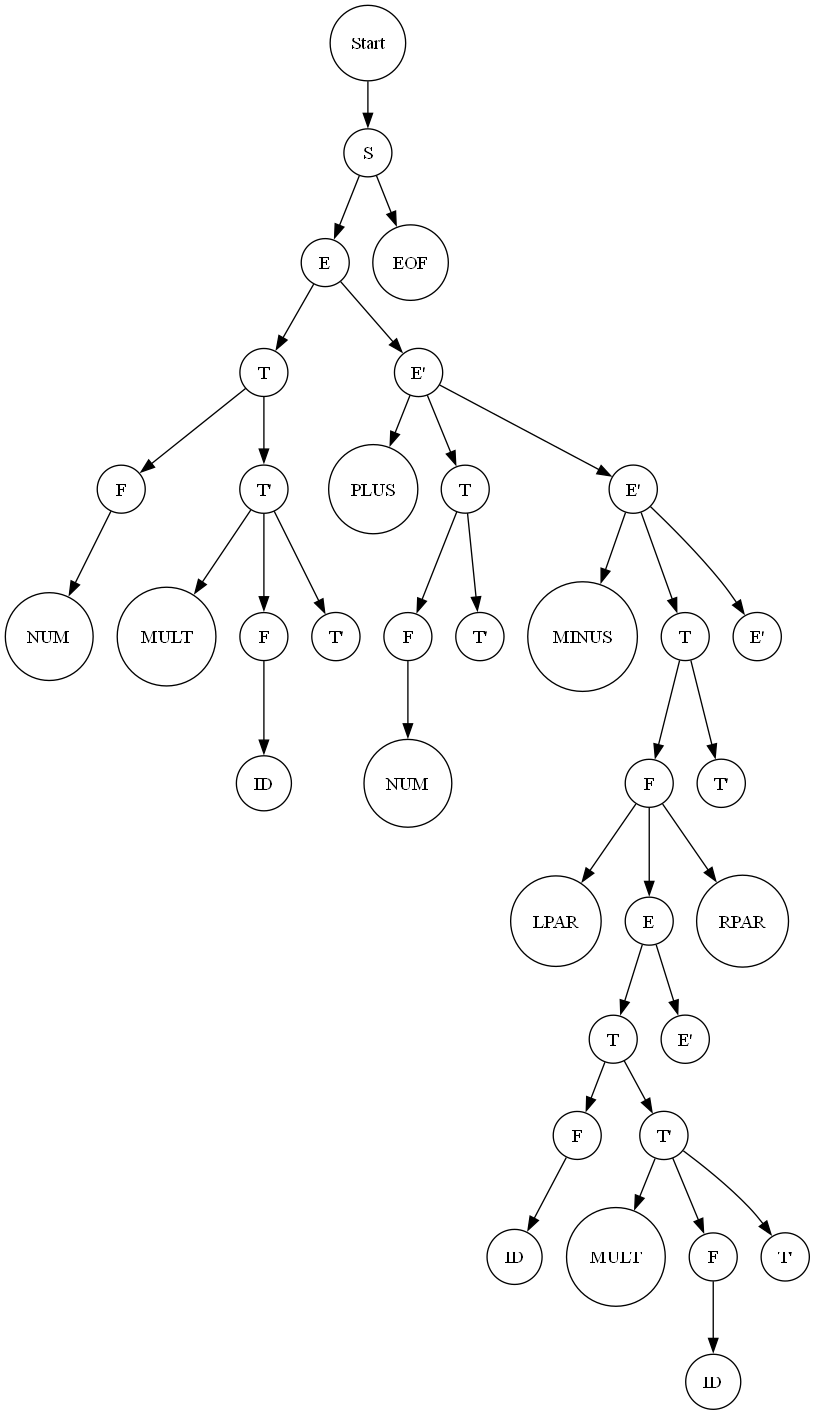
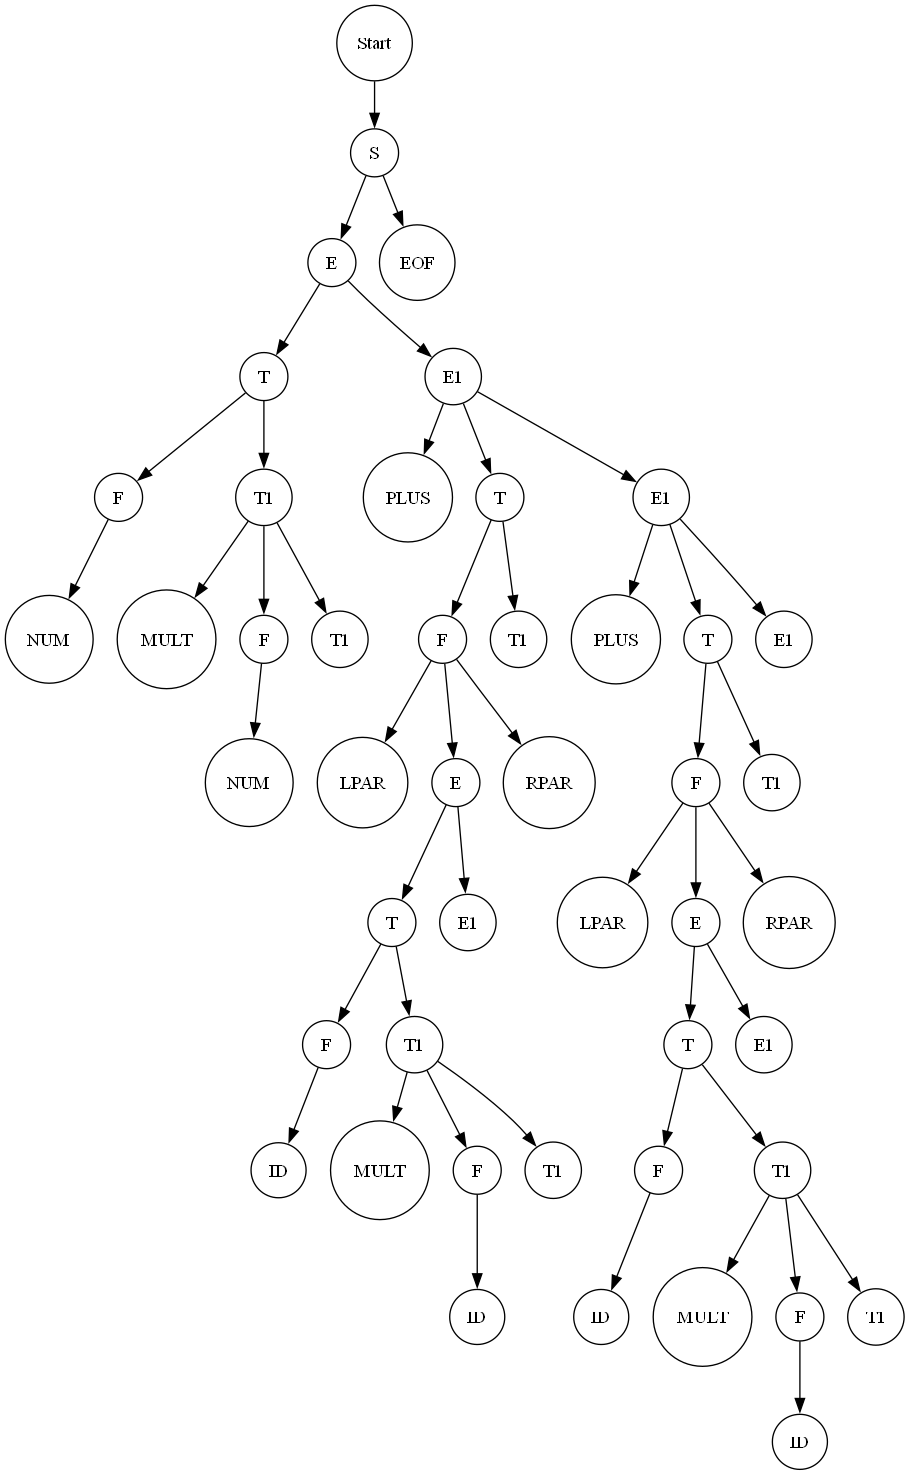
consertando erros na AST

diff --git a/src/compilers.js b/src/compilers.js
@@ -142,15 +142,15 @@ export const compiler5 = {
 
         language.addProductionRule("S", ["E", "EOF"])  
 
-        language.addProductionRule("E", ["T", "E'"])  
-        language.addProductionRule("E'", ["PLUS", "T", "E'"])  
-        language.addProductionRule("E'", ["MINUS", "T", "E'"])  
-        language.addProductionRule("E'", [])  //Vazio significa o epsilon
+        language.addProductionRule("E", ["T", "E1"])  
+        language.addProductionRule("E1", ["PLUS", "T", "E1"])  
+        language.addProductionRule("E1", ["MINUS", "T", "E1"])  
+        language.addProductionRule("E1", [])  //Vazio significa o epsilon
 
-        language.addProductionRule("T", ["F", "T'"])  
-        language.addProductionRule("T'", ["MULT", "F", "T'"])  
-        language.addProductionRule("T'", ["DIV", "F", "T'"])  
-        language.addProductionRule("T'", []) //Vazio significa o epsilon
+        language.addProductionRule("T", ["F", "T1"])  
+        language.addProductionRule("T1", ["MULT", "F", "T1"])  
+        language.addProductionRule("T1", ["DIV", "F", "T1"])  
+        language.addProductionRule("T1", []) //Vazio significa o epsilon
 
         language.addProductionRule("F", ["ID"])  
         language.addProductionRule("F", ["NUM"])  
@@ -187,15 +187,15 @@ export const compiler6 = {
 
         language.addProductionRule("S", ["E", "EOF"])  
 
-        language.addProductionRule("E", ["T", "E'"])  
-        language.addProductionRule("E'", ["PLUS", "T", "E'"])  
-        language.addProductionRule("E'", ["MINUS", "T", "E'"])  
-        language.addProductionRule("E'", [])  //Vazio significa o epsilon
+        language.addProductionRule("E", ["T", "E1"])  
+        language.addProductionRule("E1", ["PLUS", "T", "E1"])  
+        language.addProductionRule("E1", ["MINUS", "T", "E1"])  
+        language.addProductionRule("E1", [])  //Vazio significa o epsilon
 
-        language.addProductionRule("T", ["F", "T'"])  
-        language.addProductionRule("T'", ["MULT", "F", "T'"])  
-        language.addProductionRule("T'", ["DIV", "F", "T'"])  
-        language.addProductionRule("T'", []) //Vazio significa o epsilon
+        language.addProductionRule("T", ["F", "T1"])  
+        language.addProductionRule("T1", ["MULT", "F", "T1"])  
+        language.addProductionRule("T1", ["DIV", "F", "T1"])  
+        language.addProductionRule("T1", []) //Vazio significa o epsilon
 
         language.addProductionRule("F", ["ID"])  
         language.addProductionRule("F", ["NUM"])  
@@ -208,16 +208,56 @@ export const compiler6 = {
         E: (node) => {
 
             const children = node.children;
+  
+            if (children.length === 1) return children[0];
+  
+  
+            const rightOperand = node.children[1];
+  
+            if (rightOperand.type == "E1"){
+                  
+                  if(rightOperand.children.length == 0) return children[0];
+  
+  
+                  return {
+                      type: rightOperand.children[0].type,
+                      children:[
+                          node.children[0],
+                          {
+                              type: "E",
+                              children: [rightOperand.children[1], rightOperand.children[2]]
+                          }
+                  ]
+                  }
+            }
+          
+            return node;
+        },
 
-            if (children.length === 1) return children[0]; // Apenas "T"
+        // Regra para "E'" (A parte que lida com os operadores binários adicionais)
+        E1: (node) => {
+            const children = node.children;
+            // Caso tenha operador binário, cria expressão binária com "E"
 
-            return { 
-                type: "BinaryExpression", 
-                children: [children[0], children[1]] ,
-                operator: children[1], 
-                left: children[0], 
-                right: children[1] 
-            };
+            if (children.length === 1) return children[0];
+
+            console.log(node)
+
+            if(children.length == 0) return node;
+
+
+            const rightOperand = node.children[2];
+
+            if (rightOperand.type == "E1"){
+                    
+                    if(rightOperand.children.length == 0) return children[0];
+
+
+                    return {
+                        type: rightOperand.children[0].type,
+                        children: [rightOperand.children[1], rightOperand.children[2]] 
+                    }
+            }
         },
 
         T: (node) => {
@@ -225,32 +265,64 @@ export const compiler6 = {
           const children = node.children;
 
           if (children.length === 1) return children[0];
-          return { 
-            type: "EXP", 
-            children: [children[0], children[1]], 
-            operator: children[1], 
-            left: children[0], 
-            right: children[1] 
-          };
+
+
+          const rightOperand = node.children[1];
+
+          if (rightOperand.type == "T1"){
+                
+                if(rightOperand.children.length == 0) return children[0];
+
+
+                return {
+                    type: rightOperand.children[0].type,
+                    children:[
+                        node.children[0],
+                        {
+                            type: "T",
+                            children: [rightOperand.children[1], rightOperand.children[2]]
+                        }
+                ]
+                }
+          }
+        
+          return node;
+        },
+
+        // Regra para "T'" (A parte que lida com operadores multiplicativos)
+        T1: (node) => {
+            const children = node.children;
+
+            if(children.length < 1) throw Error();
+
+            if (children.length === 1) return children[0];
+
+            const rightOperand = node.children[2];
+
+            if (rightOperand.type == "T1"){
+                    
+                    if(rightOperand.children.length == 0) return children[0];
+
+                    return {
+                        type: node.children[0].type,
+                        children:[
+                            node.children[1],
+                            {
+                                type: rightOperand.children[0].type,
+                                children: [rightOperand.children[1], rightOperand.children[2]] 
+                            }
+                        ]
+                    }
+            }
         },
         
         F: (node) => {
 
           const children = node.children;
 
-          if (children[0].type === "NUM") 
-            return { 
-                type: "NUMBER", 
-                children:[], 
-                value: parseInt(children[0].token) 
-            };
+          if (children[0].type === "NUM") return children[0]
 
-          if (children[0].type === "ID") 
-            return { 
-                type: "Identifier", 
-                children:[], 
-                name: children[0].token 
-            };
+          if (children[0].type === "ID") return children[0]
 
           return children[1]; // Parenthesized expression
         },

diff --git a/src/abstractSyntaxTree.js b/src/abstractSyntaxTree.js
@@ -8,25 +8,26 @@ export class AbstractSyntaxTree {
       this.rules[nonTerminal] = transformFn;
     }
   
-    build(node) {
+    build(node, depth=0) {
 
       if (!node || typeof node !== 'object') throw Error()
+
+      if(depth > 1) return node;
 
       const transform = this.rules[node.type];
 
 
       if(!transform) {
 
-        node.children = node.children.map(child => this.build(child));
+        node.children = node.children.map(child => this.build(child, depth+1));
 
         return node;
       }
       
       const astNode = transform(node);
       
-      astNode.children = astNode.children.map(child => this.build(child));
+      astNode.children = astNode.children.map(child => this.build(child, depth+1));
   
-
       return astNode;
     }
   }

diff --git a/index.js b/index.js
@@ -55,6 +55,7 @@ class Program{
         if(this.phases < SEMANTIC) return;
 
         const AST = this.AST.build(syntaxTree);
+
         console.log(util.inspect(AST, {depth:10}))
 
         TreeVisualizer.writeFile("ast.dot", AST)
@@ -64,6 +65,6 @@ class Program{
 
 const program = new Program(compiler6);
 
-program.run(compiler6.code[2])
+program.run(compiler6.code[0])
 
 // console.log(new LLParser(program.parser.language).computeSets());
